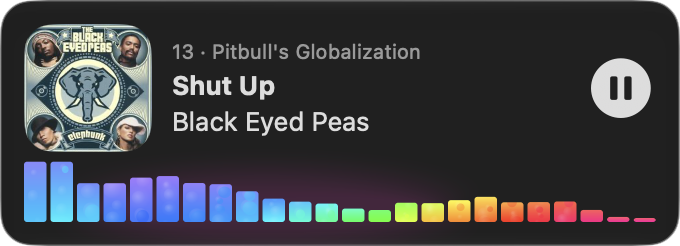
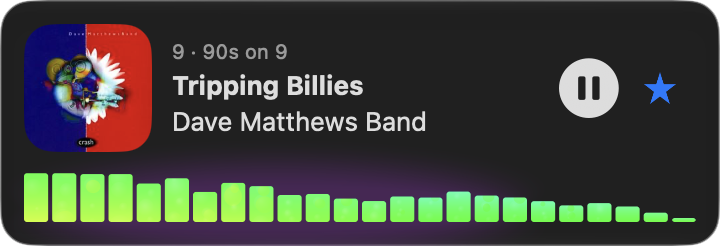
README: 1.1.14 screenshots and demo GIF from the release build (360 pt panel, tear-off, shade, bubbles), stars bullet, download link

diff --git a/README.md b/README.md
@@ -21,7 +21,7 @@ StarPlayrX was built for visually impaired listeners, a group of paying subscrib
 ## 🎛 StarPlayrX for Mac (menu bar app)
 
 <p align="center">
-  <img src="docs/starplayrx-mac-demo.gif" width="400" alt="StarPlayrX playing 70s/80s: click the menu bar icon, drag the panel off the menu bar into its own window, double-click the header to roll it up like a window shade and again to roll it down, then click the icon to glide it back under the menu bar">
+  <img src="docs/starplayrx-mac-demo.gif" width="400" alt="StarPlayrX playing 90s on 9: click the menu bar icon, drag the panel off the menu bar into its own window, double-click the header to roll it up like a window shade and again to roll it down, then click the icon to glide it back under the menu bar">
 </p>
 
 <table align="center">
@@ -66,6 +66,7 @@ StarPlayrX was built for visually impaired listeners, a group of paying subscrib
   </tr>
 </table>
 
+- **Stars (presets):** every channel row has a star; click it to add the channel to your presets or take it out. The star beside the play button stars the playing channel, and the star beside the search field shows just your starred channels. Stars are kept on this Mac, under the same key and with the same starting set as the iOS app
 - **Liquid Glass** look on macOS 26 and later
 - **AppleScript support:** play, stop, resume, and step through channels, read what each channel shows and what's actually playing (artist, song, artwork), list channels by category, search, scroll, tear off, park, and shade the window, pick the bubble mode, and flip the modern API switches. Open the StarPlayrX dictionary in Script Editor to see every command
 - Search channels, artists and songs
@@ -81,7 +82,7 @@ StarPlayrX was built for visually impaired listeners, a group of paying subscrib
 
 **Requirements:** macOS 13 Ventura or later, Apple Silicon or Intel, and an active SiriusXM subscription.
 
-**Download:** [StarPlayrX for Mac 1.1.13](https://github.com/AgentiLoop/StarPlayrX/releases/tag/mac-1.1.13) (signed and notarized). All builds are on the [Releases](https://github.com/AgentiLoop/StarPlayrX/releases) page.
+**Download:** [StarPlayrX for Mac 1.1.14](https://github.com/AgentiLoop/StarPlayrX/releases/tag/mac-1.1.14) (signed and notarized). All builds are on the [Releases](https://github.com/AgentiLoop/StarPlayrX/releases) page.
 
 > **Updating to 1.1.9?** Sign in once more after updating. Your login moves to a new, protected keychain that stops the repeated Mac password prompts, so StarPlayrX asks for your SiriusXM email and password one time.
 
